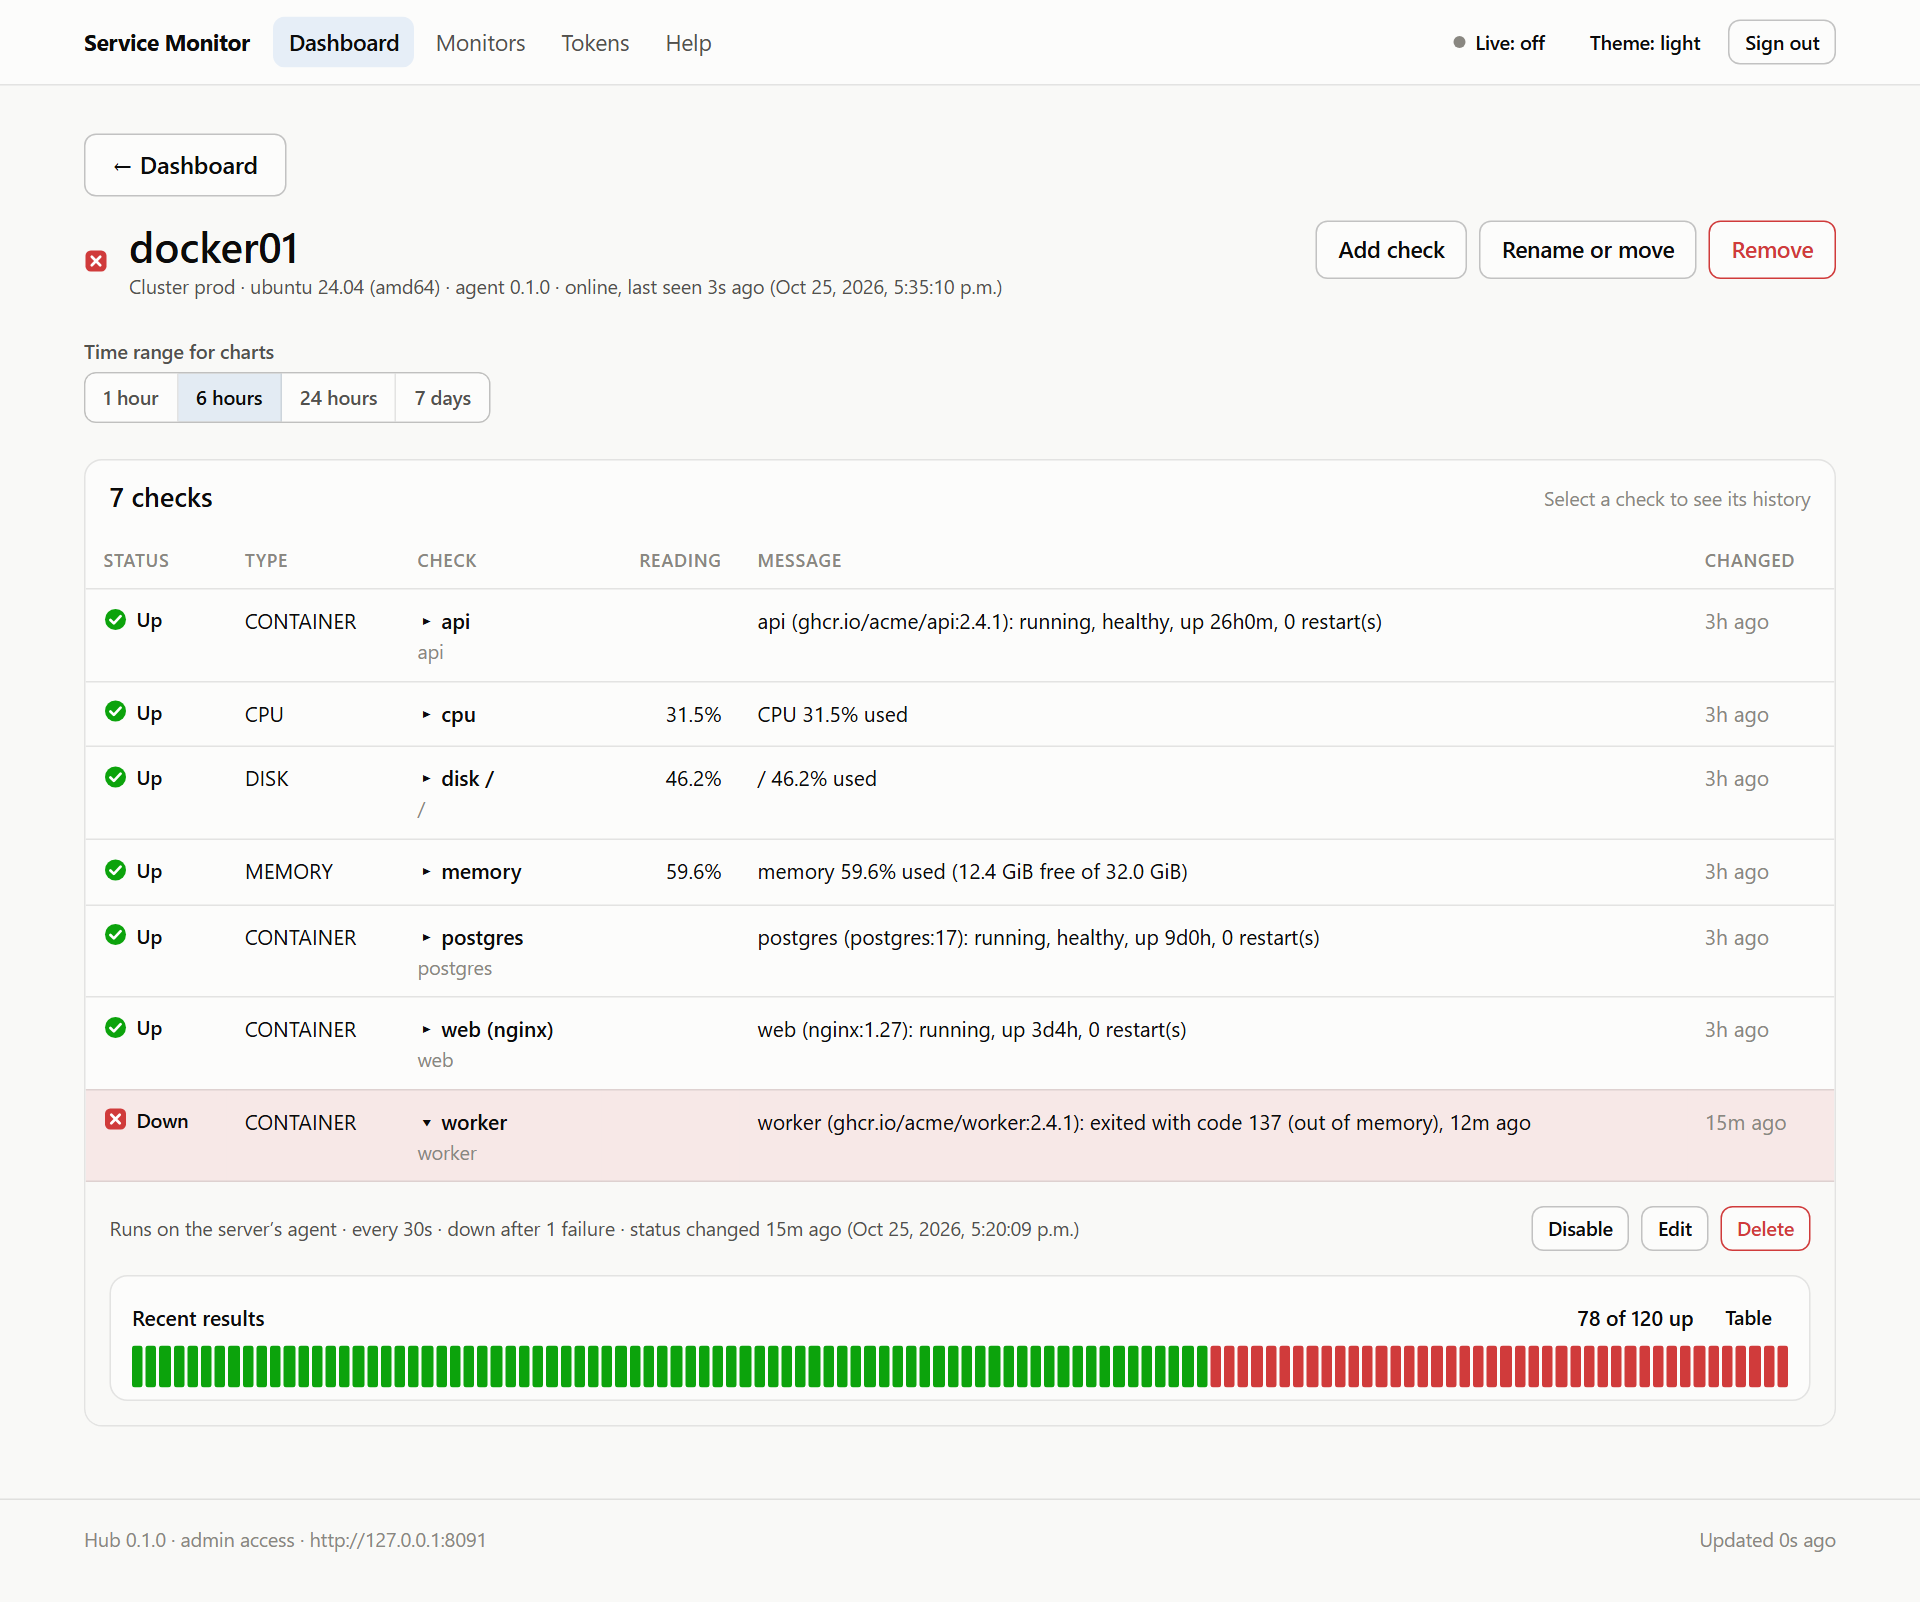
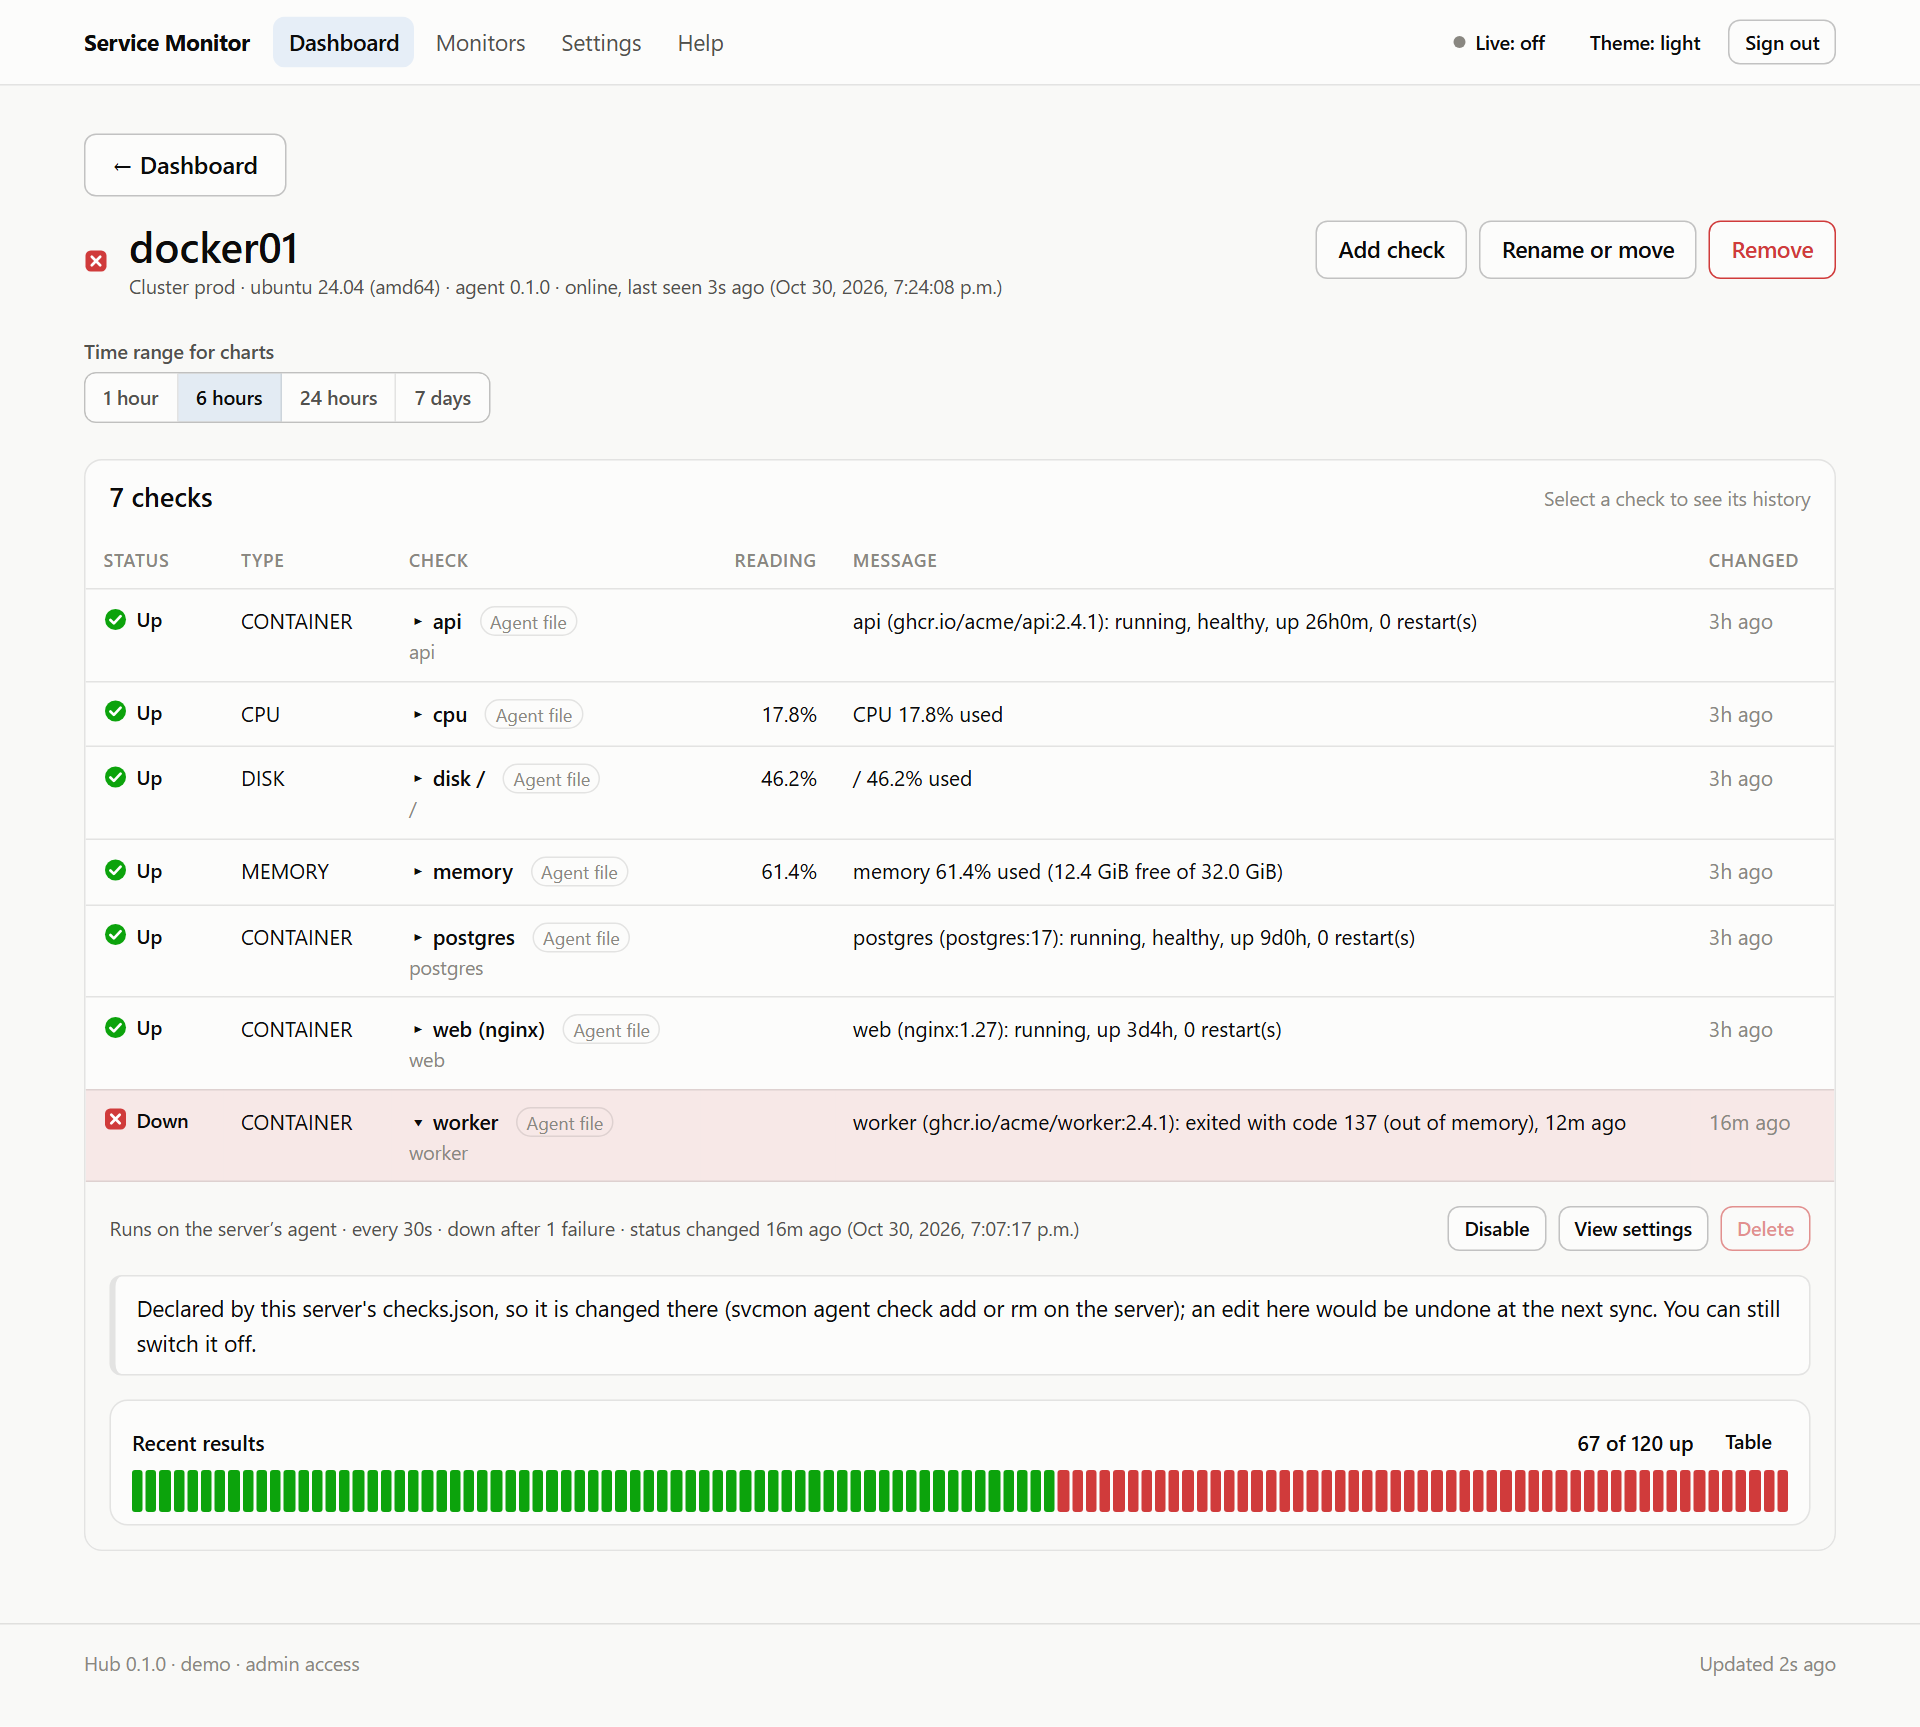
Docs: screenshots of the current dashboard, and a screenshot script that signs in as a user (#43)
The seven pictures in docs/assets were from before the dashboard's sign-in
and Settings work: they showed the old Tokens tab and footer, and a check
declared in an agent's checks.json that could still be edited or deleted.
Taken again from a throwaway demo hub with made-up servers: Settings in
the menu, the "Agent file" tag, View settings and a greyed Delete with
the note on declared checks, and the footer with the user and access.

cdp-shots.mjs signed in by putting a token in the browser's storage,
which the dashboard no longer accepts. It now uses the admin token to
make (or reset) an administrator named demo, signs the page in with the
temporary password and changes it to a random one. It also reloads after
picking the theme, which the page reads only when it loads. README:
svcmon.version for a release number in the footer, file names to copy,
and the agent-declared-checks flag dropped (on by default).

diff --git a/docs/tools/screenshots/README.md b/docs/tools/screenshots/README.md
@@ -4,7 +4,8 @@ They show a **throwaway demo hub** filled with made-up servers, so they contain 
 
 1. Build the dashboard (`npm run build` in the dashboard repository) and the hub jar, and copy the jar somewhere (a running jar is locked on Windows).
 2. Start a hub with a new, empty data folder on a spare port, for example:
-   `java -jar svcmon-hub.jar --server.port=8091 --svcmon.data-dir=<new folder> --svcmon.bootstrap-admin-token=<a throwaway token of 32+ characters> --svcmon.ui-dir=<dashboard>/dist --svcmon.agent-stale-seconds=25 --svcmon.agent-declared-checks=true`
+   `java -jar svcmon-hub.jar --server.port=8091 --svcmon.data-dir=<new folder> --svcmon.bootstrap-admin-token=<a throwaway token of 32+ characters> --svcmon.ui-dir=<dashboard>/dist --svcmon.agent-stale-seconds=25 --svcmon.version=0.1.0`
+   (`svcmon.version` is the release the footer shows, instead of the jar's `-SNAPSHOT` version.)
 3. Fill it with servers and keep them reporting (leave both running):
    `node <dashboard>/scripts/seed-demo.mjs --hub http://127.0.0.1:8091 --token <token> --hours 6 --live`
    `node seed-containers.mjs --hub http://127.0.0.1:8091 --token <token>` (this folder; adds the `docker01` server whose container checks are declared by its own agent)
@@ -12,6 +13,7 @@ They show a **throwaway demo hub** filled with made-up servers, so they contain 
    `msedge --headless=new --disable-gpu --hide-scrollbars --remote-debugging-port=9223 --user-data-dir=<new folder> about:blank`
 5. Take the pictures, with the server ids from `GET /api/v1/servers`:
    `node cdp-shots.mjs 9223 <out folder> http://127.0.0.1:8091 <token> <docker01 id> <web02 id>`
-6. Copy the ones you want into `docs/assets` and stop the demo hub, the seeders and the browser.
+   The dashboard signs people in with a user name and password, so the script uses the token to make an administrator named `demo` (or to reset its password on a later run), signs the browser in with the temporary password and changes it to a random one it does not keep.
+6. Copy the ones you want into `docs/assets`, dropping the `-light` ending (`check-chart-light.png` becomes `check-chart.png`; only the dashboard keeps both `dashboard-light.png` and `dashboard-dark.png`), and stop the demo hub, the seeders and the browser.
 
 Never point the seed scripts at a hub that monitors real systems, and do not publish a screenshot of a real hub.
